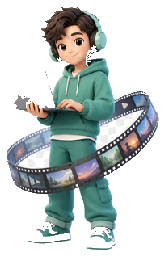
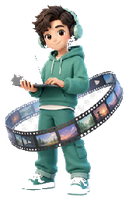
fix(mp): 欢迎页身份四宫格恢复 3D 卡通形象
达人/PR 图标改回包内 3D mascot（CDN 仍为旧线稿）；同步 ECS 静态图并控制主包约 2MB。

diff --git a/灵祺达人撮合小程序/pages/welcome/welcome.js b/灵祺达人撮合小程序/pages/welcome/welcome.js
@@ -75,13 +75,16 @@ Page({
   onIdentityIconError(e) {
     const id = String((e.currentTarget && e.currentTarget.dataset && e.currentTarget.dataset.id) || '')
     if (!id) return
+    const current = (this.data.identityOptions || []).find((x) => x && x.id === id)
     const { loginIdentityIconCdnFallback } = require('../../utils/loginIdentityIcons.js')
-    const cdnUrl = loginIdentityIconCdnFallback(id)
-    const ossUrl = mpCdnAssets.ossAssetUrl(`identity/identity-${id}.png`)
-    const fallback = cdnUrl !== (this.data.identityOptions || []).find((x) => x && x.id === id)?.icon ? cdnUrl : ossUrl
+    const candidates = [
+      loginIdentityIconCdnFallback(id),
+      mpCdnAssets.ossAssetUrl(`identity/identity-${id}.png`),
+    ].filter(Boolean)
+    const fallback = candidates.find((url) => url && url !== (current && current.icon))
     if (!fallback) return
     const opts = (this.data.identityOptions || []).map((item) =>
-      item && item.id === id && item.icon !== fallback ? { ...item, icon: fallback } : item,
+      item && item.id === id ? { ...item, icon: fallback } : item,
     )
     this.setData({ identityOptions: opts })
   },

diff --git a/灵祺达人撮合小程序/utils/config.release.js b/灵祺达人撮合小程序/utils/config.release.js
@@ -11,7 +11,7 @@ module.exports = {
   /** 云函数用 IP 访问轻量（与云开发环境变量一致，仅文档用） */
   MP_ERP_IP: '139.196.42.5',
   MP_ERP_HOST: 'mofangdianai.com',
-  MP_BUILD_ID: 'mp-20260616-pack-under-2mb',
+  MP_BUILD_ID: 'mp-20260616-identity-mascot-v1',
   /** 模拟定位：wx.getFuzzyLocation（须在后台开通 getFuzzyLocation） */
   MP_USE_FUZZY_LOCATION: true,
   /**
@@ -26,7 +26,7 @@ module.exports = {
   /** 分享/身份图仅 CDN（images/share、identity 不打包，主包 <2MB 真机调试） */
   MP_COVER_PREFER_CDN: true,
   /** 远程图缓存版本（改图后 bump，避免微信缓存旧 JPEG） */
-  MP_ASSET_CACHE_VER: '20260615e',
+  MP_ASSET_CACHE_VER: '20260616a',
   /** 小程序封面图库：OSS 公网 URL（upload-mp-recruit-covers-oss.js 写入 recruitCoverOssBase.js） */
   MP_COVER_USE_BUNDLE: false,
   /** 群聊复制文案 #小程序:// 名称，须与微信公众平台小程序昵称一致 */

diff --git a/灵祺达人撮合小程序/utils/loginIdentityIcons.js b/灵祺达人撮合小程序/utils/loginIdentityIcons.js
@@ -1,8 +1,15 @@
-/** 欢迎/登录页身份图标：CDN/OSS（images/identity 不打包，控制主包 <2MB） */
+/** 欢迎/登录页身份图标：包内 3D 卡通优先（真机稳定），CDN/OSS 作回退 */
 const mpCdnAssets = require('./mpCdnAssets.js')
 
+const LOCAL_IDENTITY_ICON = {
+  talent: '/images/identity/identity-talent.png',
+  shoot: '/images/identity/identity-shoot.png',
+  edit: '/images/identity/identity-edit.png',
+  pr: '/images/identity/identity-pr.png',
+}
+
 function loginIdentityIcon(id) {
-  return mpCdnAssets.identityIcon(id)
+  return LOCAL_IDENTITY_ICON[id] || mpCdnAssets.identityIcon(id)
 }
 
 function loginIdentityIconCdnFallback(id) {
